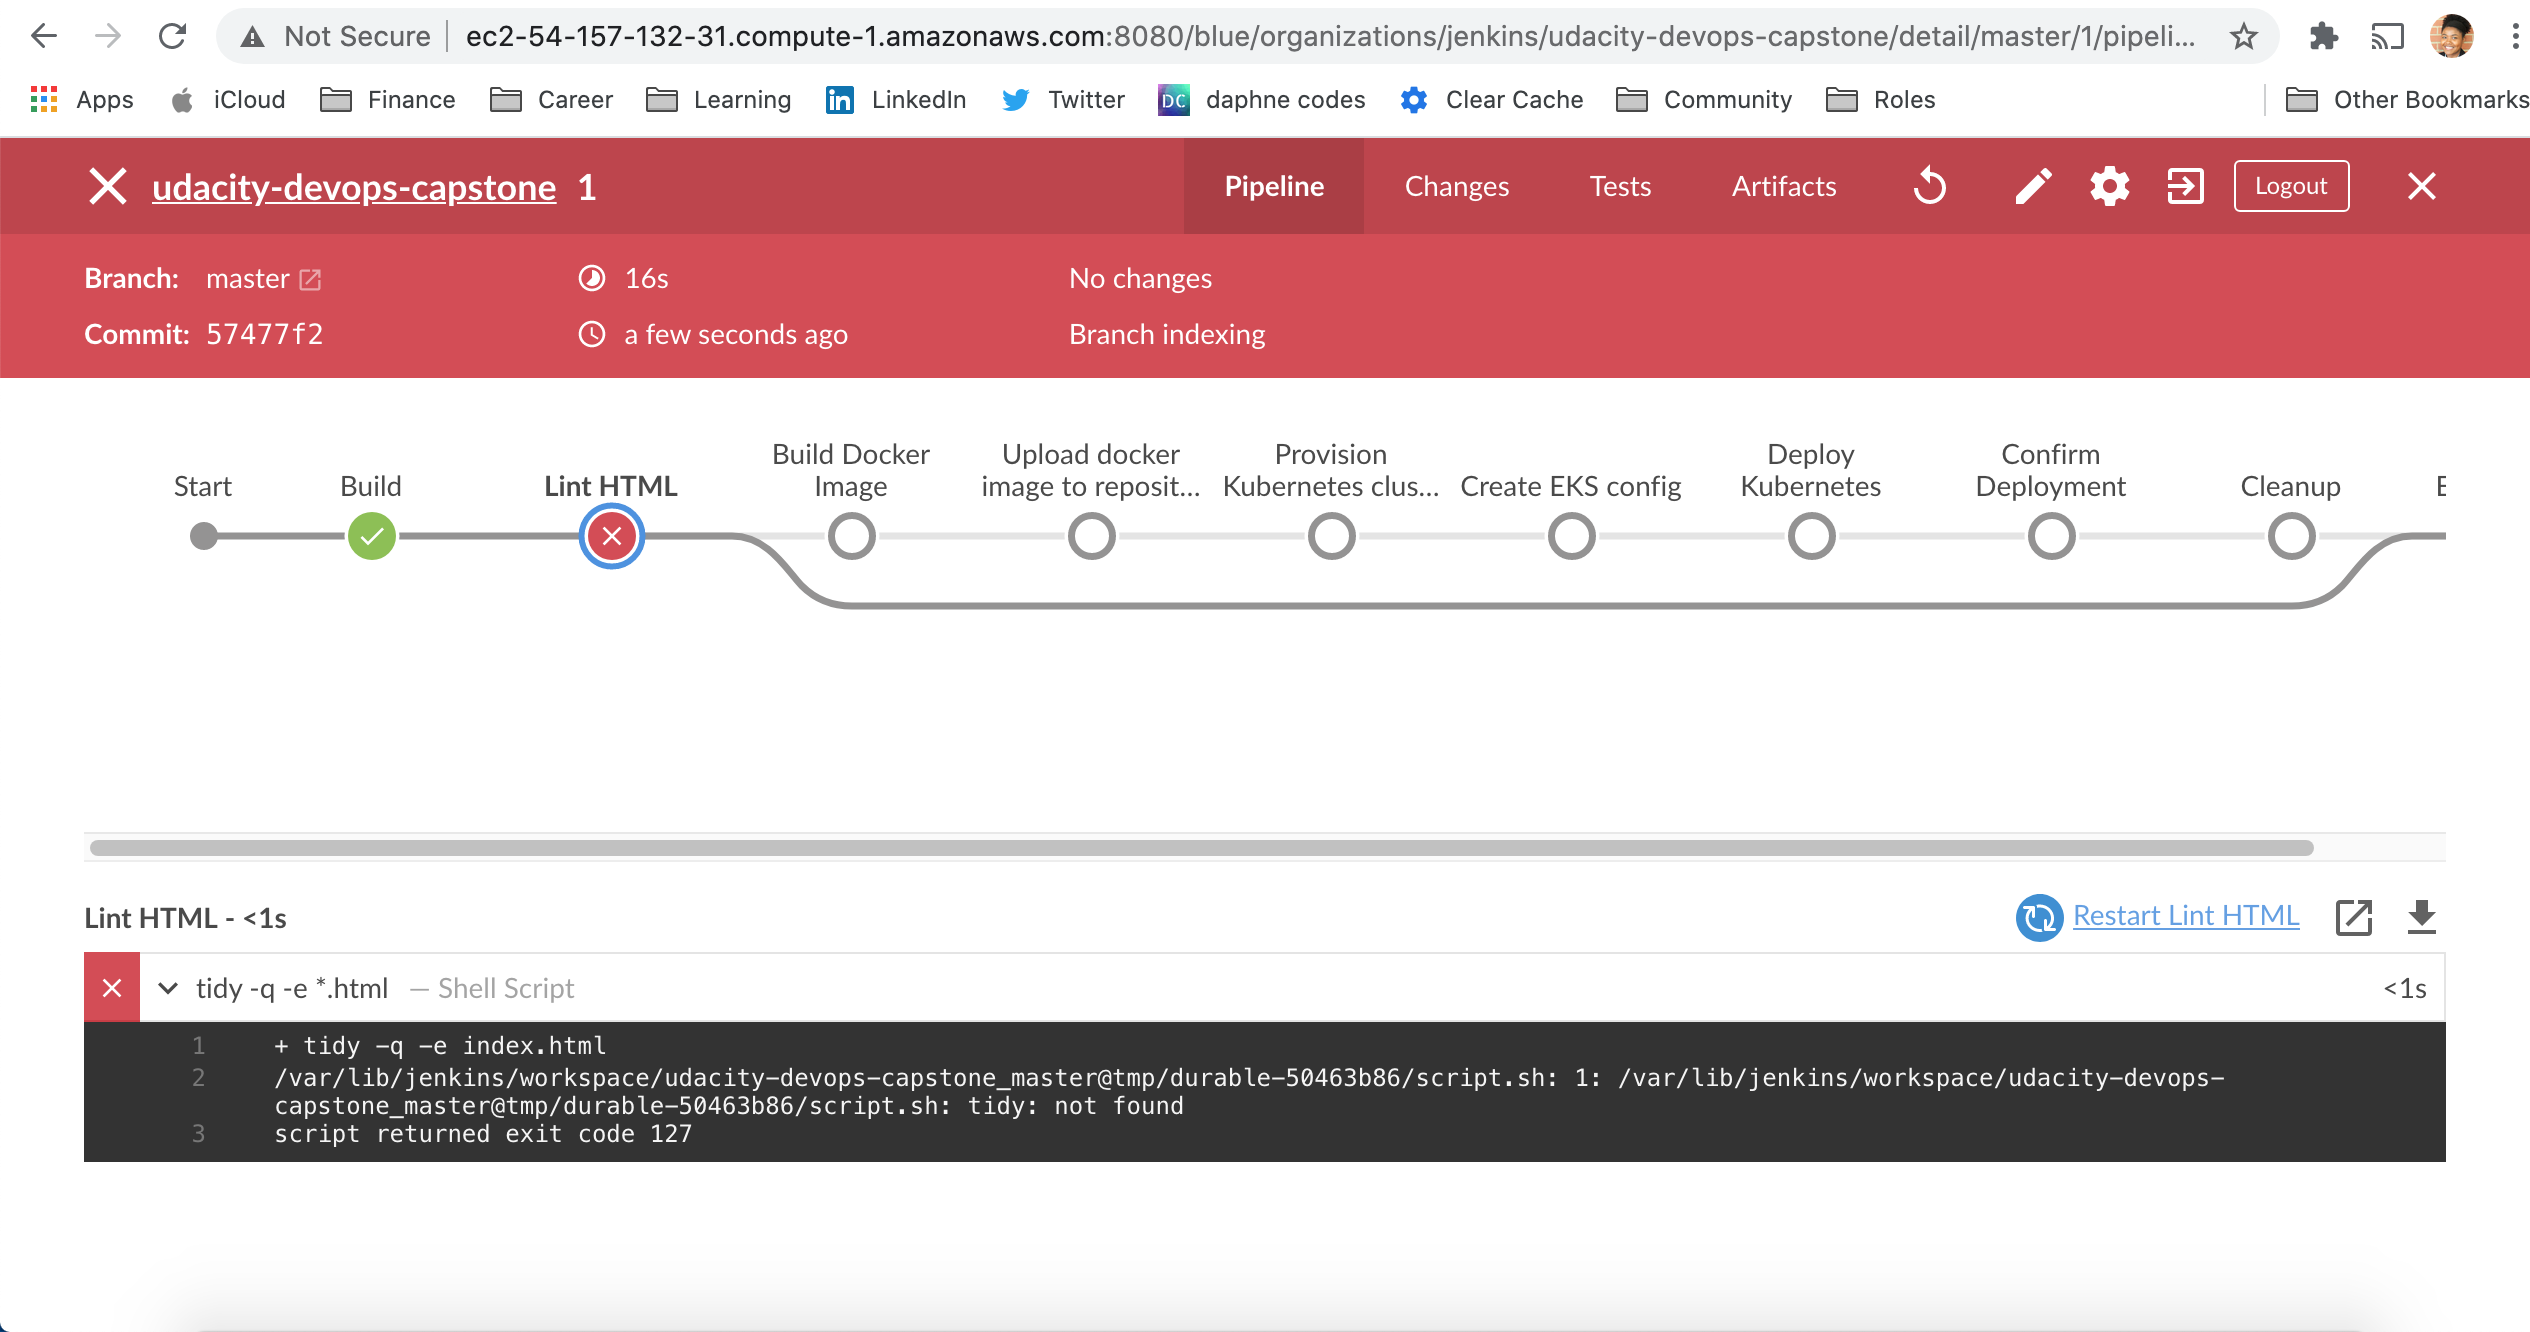
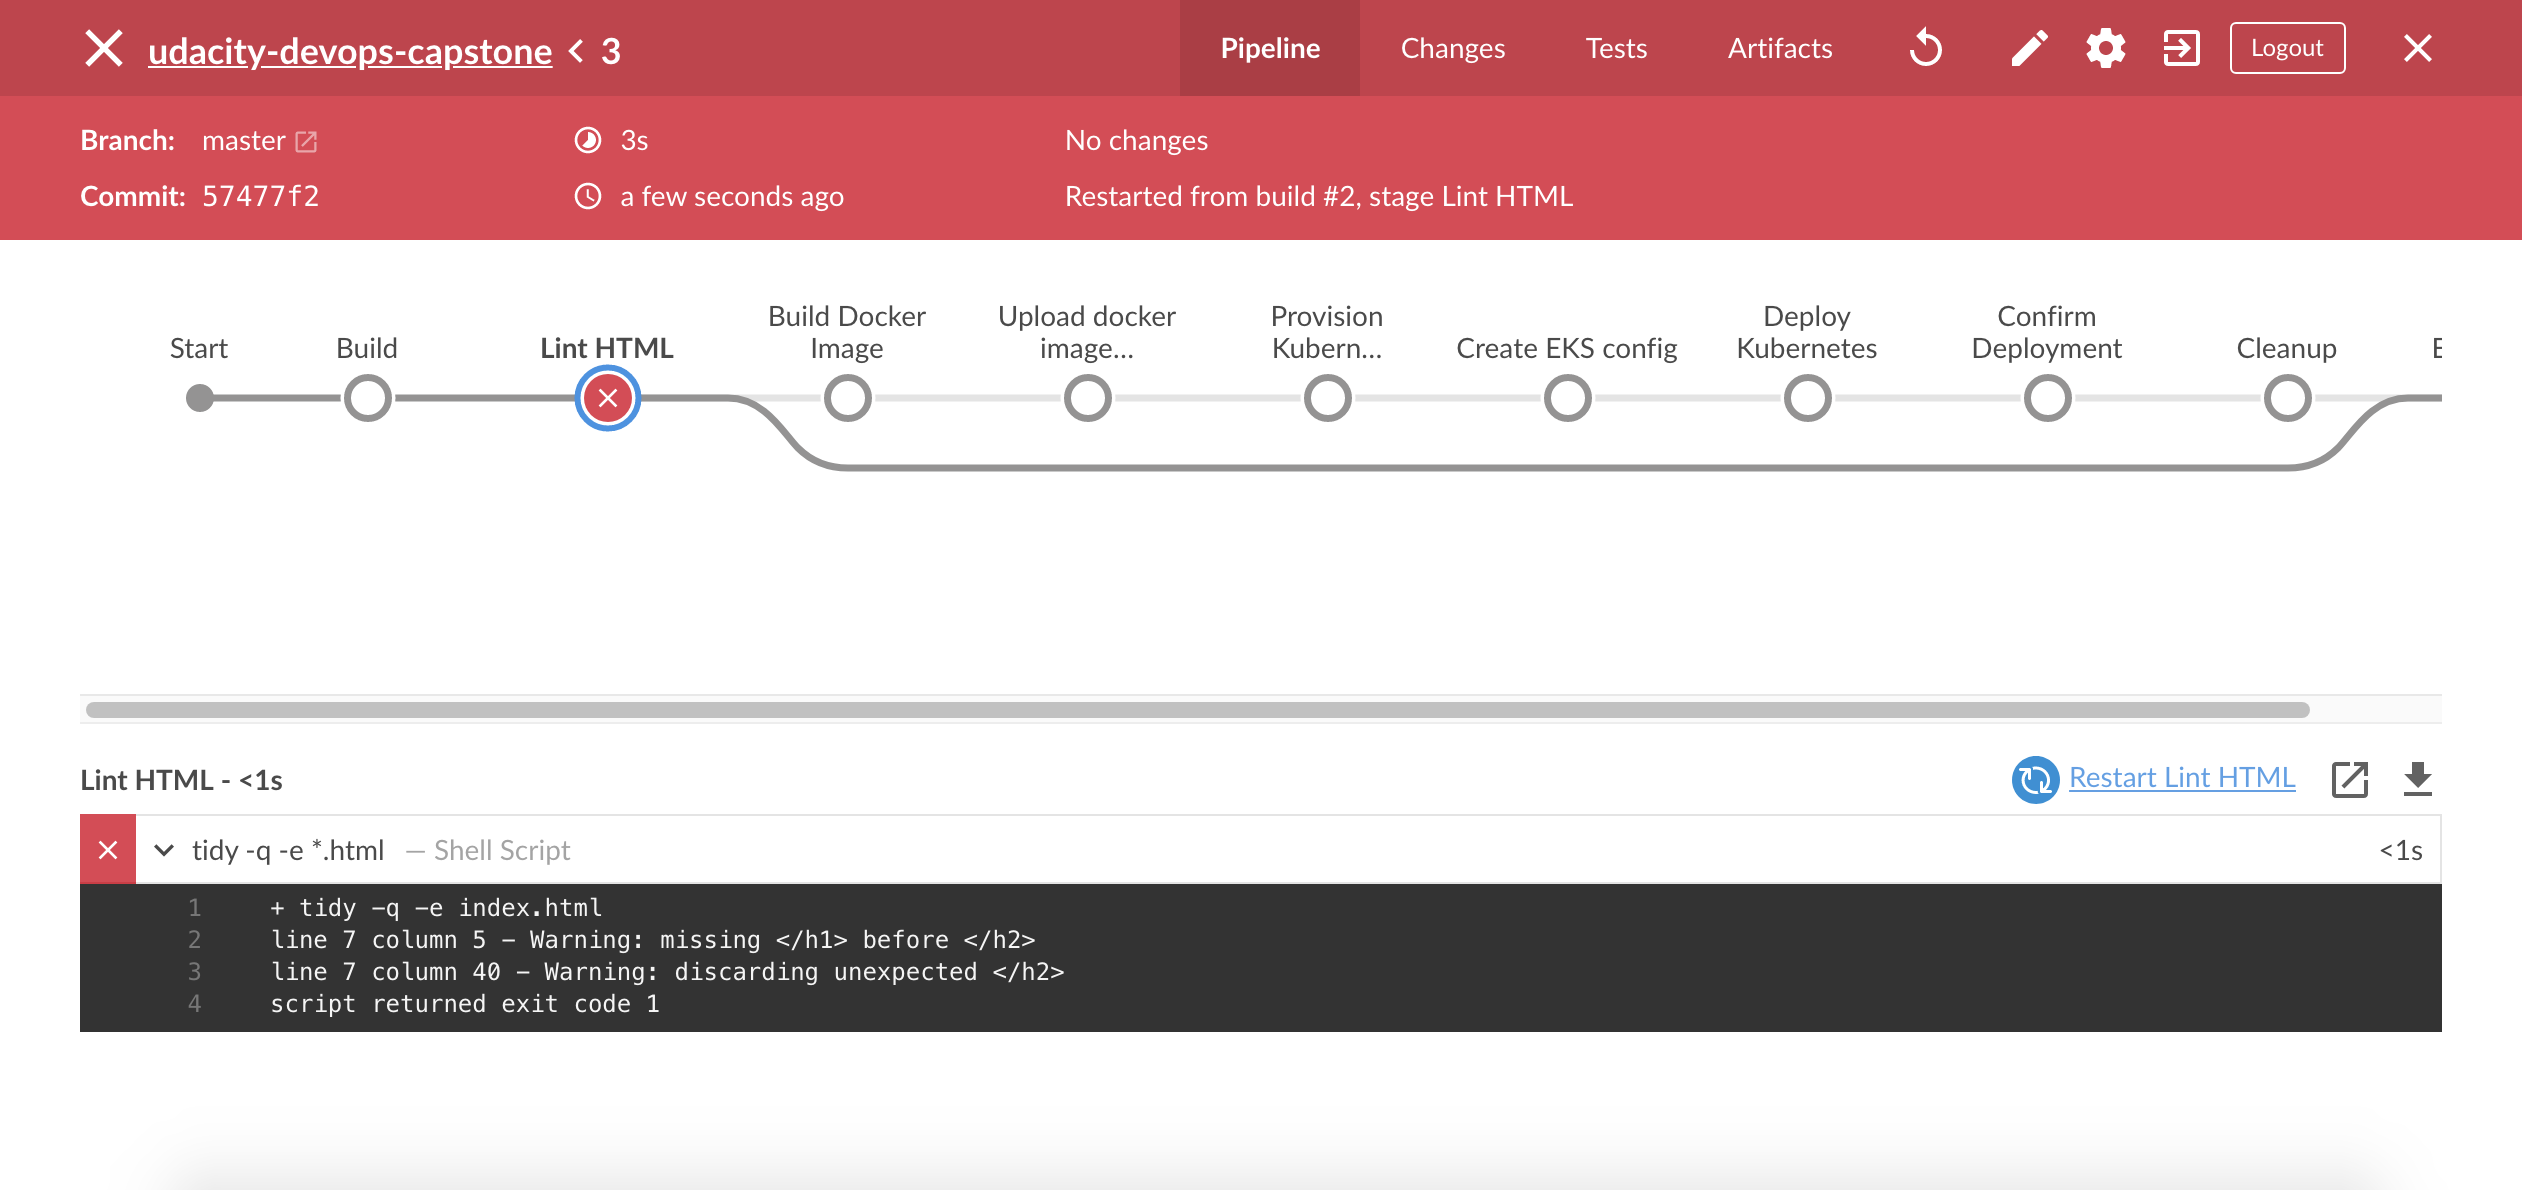
fixed html

Changed region(s): [[0.0, 0.0, 1.0, 0.4664], [0.0309, 0.5908, 0.9897, 0.8706], [0.0928, 0.995, 0.9278, 1.0]]

diff --git a/index.html b/index.html
@@ -4,6 +4,6 @@
     <title>Udacity Capstone</title>
   </head>
   <body>
-    <h1>Hello World, my name is Daphne!</h2>
+    <h1>Hello World, my name is Daphne!</h1>
   </body>
 </html>
